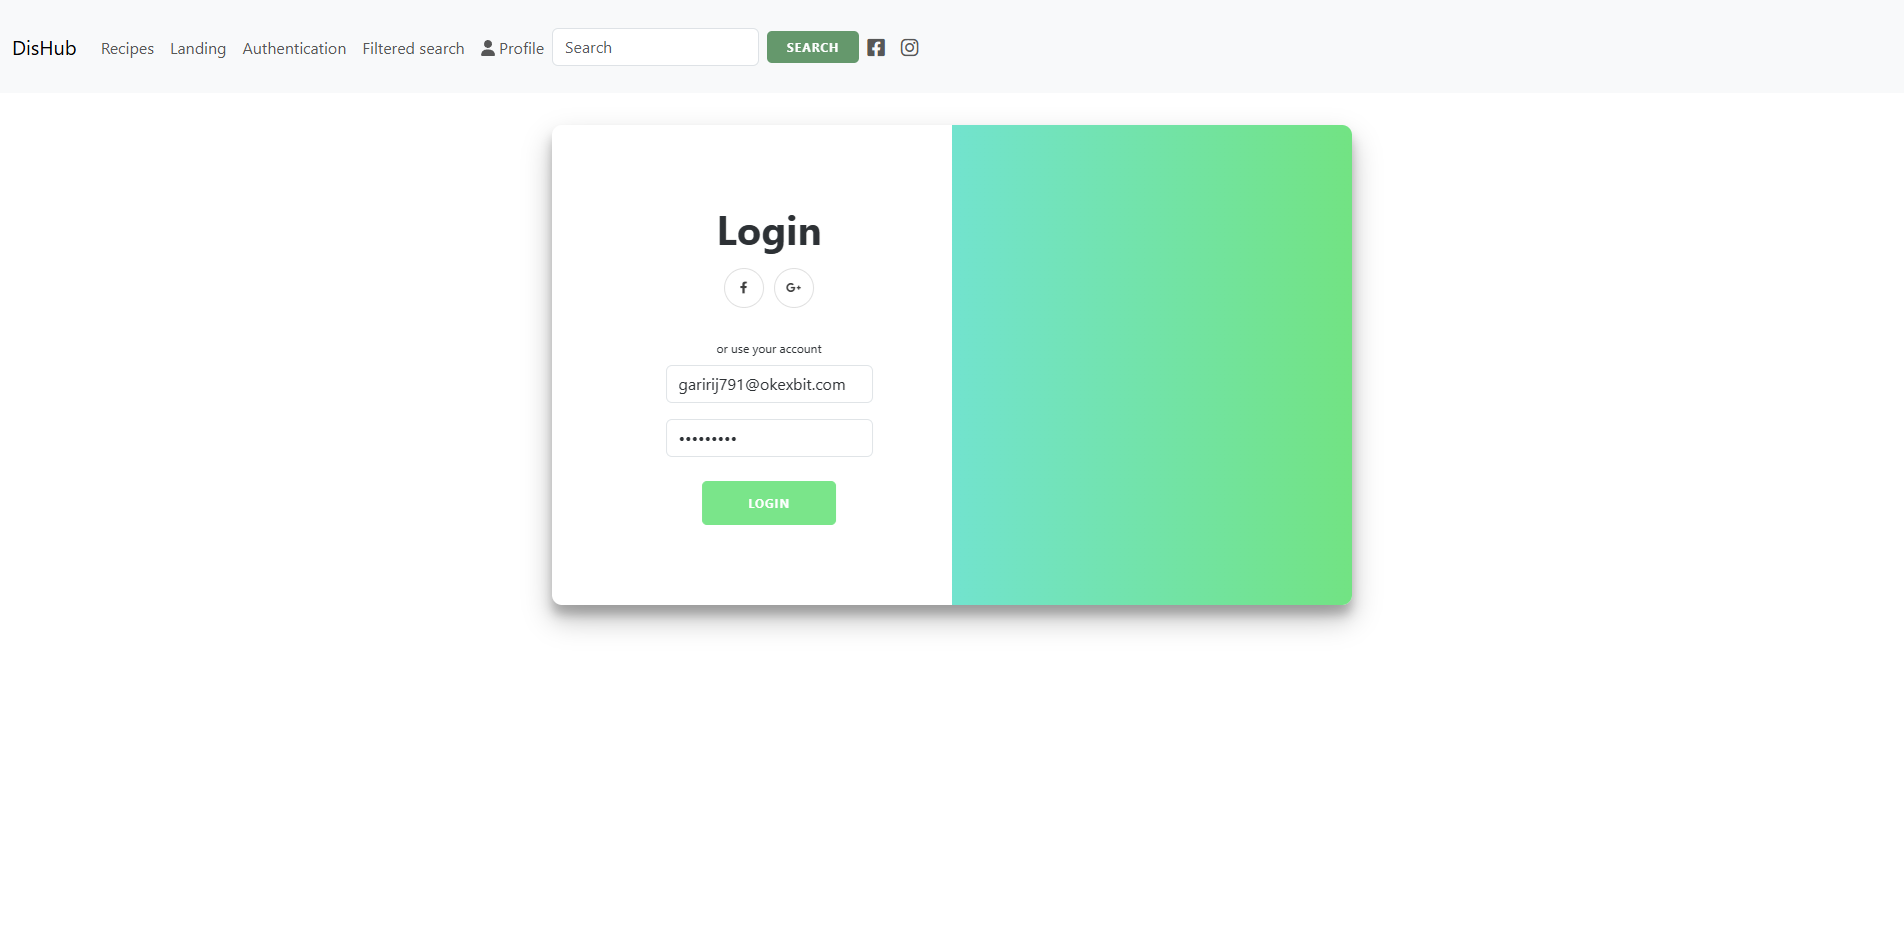
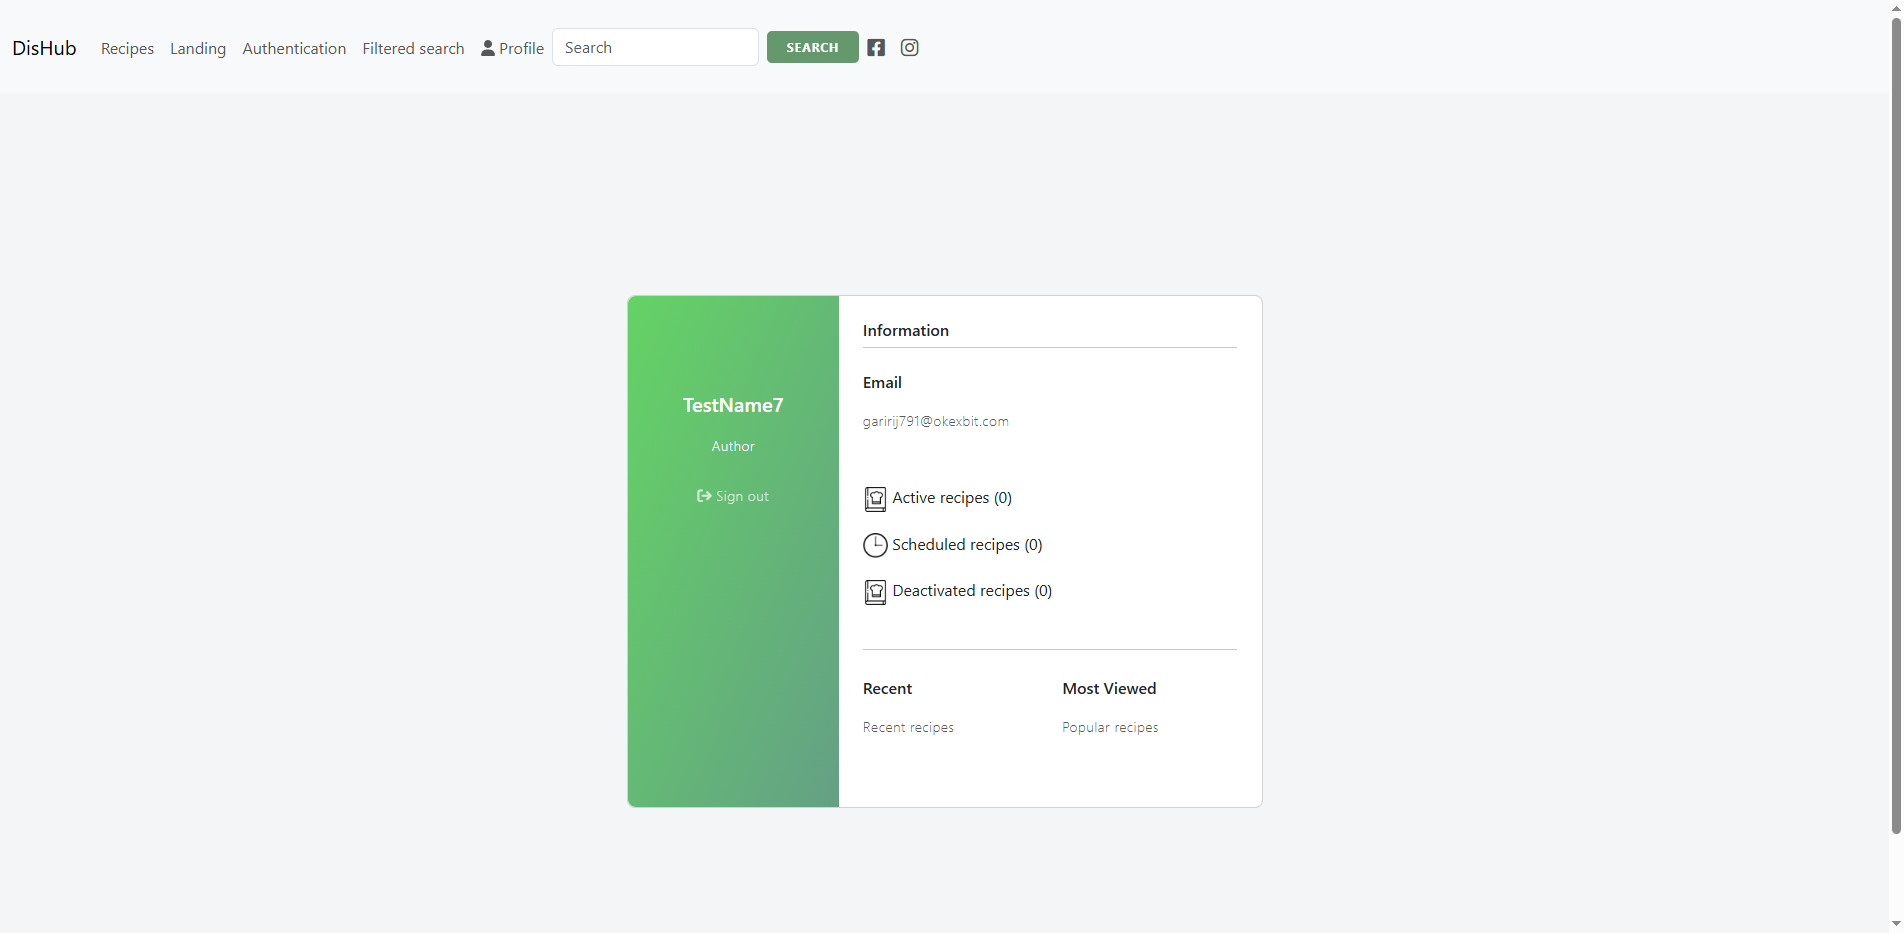
changed enable user functions

diff --git a/POM/utils/sql_enable_user.py b/POM/utils/sql_enable_user.py
@@ -16,7 +16,7 @@ def enable_user(email):
     get_user_id = ("SELECT user_id \n"
                    "FROM blog.user \n"
                    f"WHERE email = '{email}' ")
-    user_id = 1
+    user_id = 39
 
     authorize = ("UPDATE blog.user \n"
                  "SET enabled = 1 \n"
@@ -29,5 +29,6 @@ def enable_user(email):
     user_id = kurzor.fetchone()
     pprint(user_id)
     kurzor.execute(authorize)
+    kapcsolat.commit()
 
 enable_user('garirij791@okexbit.com')

diff --git a/POM/utils/create_driver.py b/POM/utils/create_driver.py
@@ -8,7 +8,7 @@ def create_preconfigured_chrome_driver():
     options = selenium.webdriver.chrome.options.Options()
     options.add_experimental_option("detach", True)
     options.add_argument('--guest')
-    options.add_argument('--headless')
+    #options.add_argument('--headless')
     options.add_argument("--window-size=1920,1080")
     browser = webdriver.Chrome(options=options)
     #browser.set_window_size(1920, 1080)
